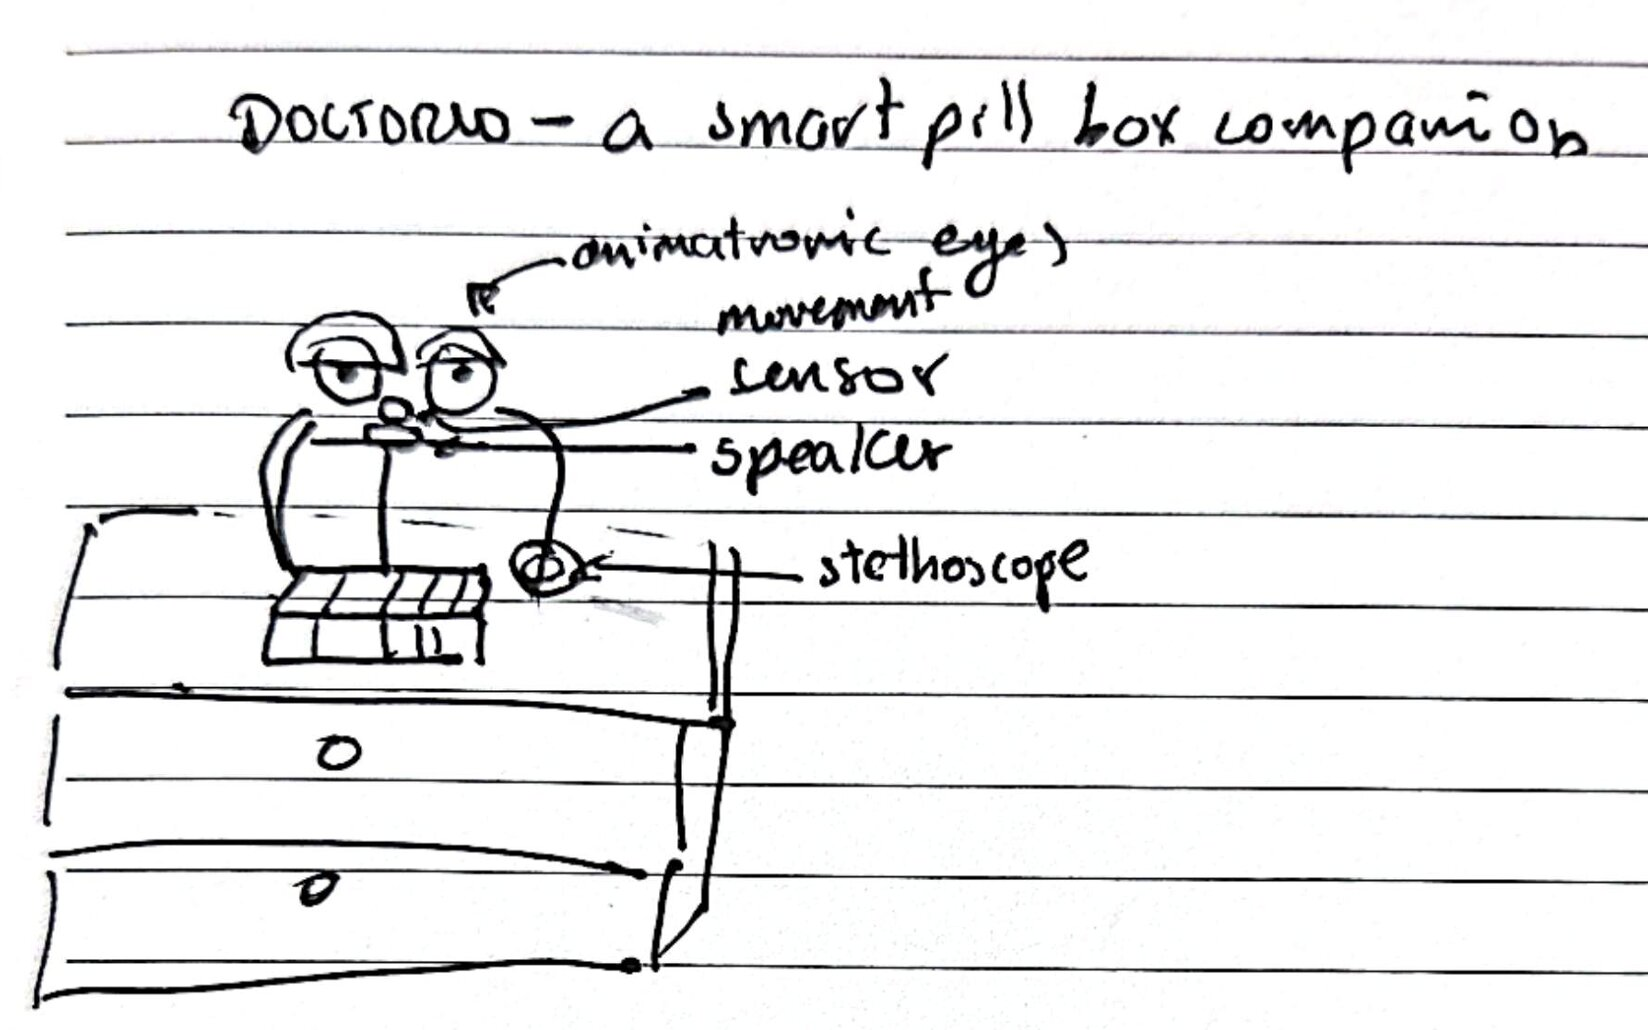
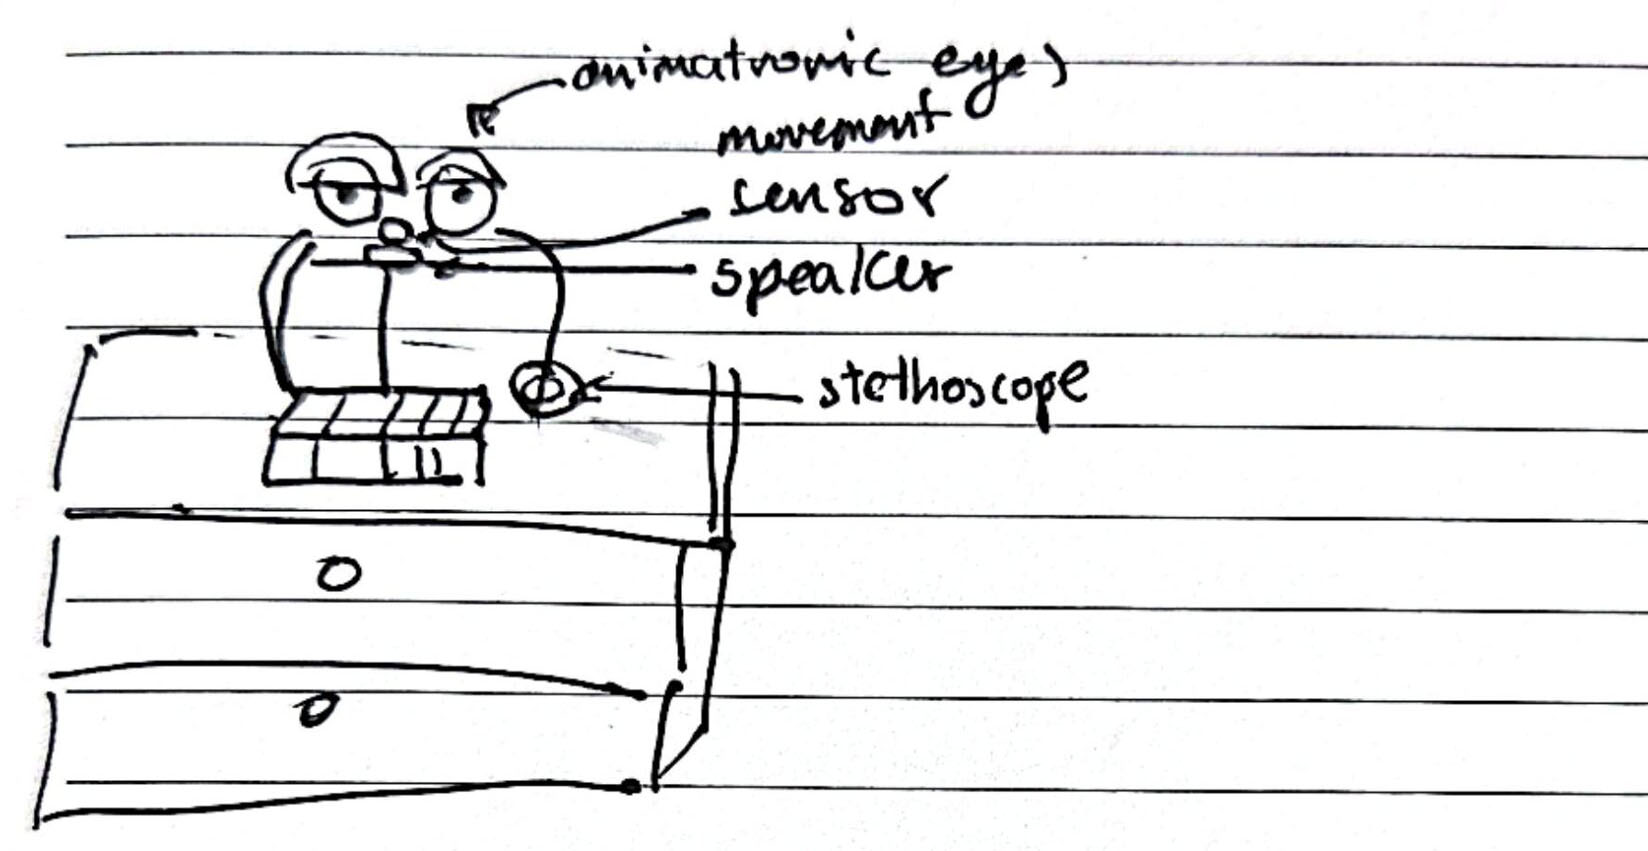
update robot name

Changed region(s): [[0.0, 0.0306, 1.0, 0.9777]]

diff --git a/01_intro/index.html b/01_intro/index.html
@@ -30,7 +30,7 @@
       <div id="slideshow1" class="slideshow-container">
 				<div class="slides">
 					<img src="./Assets/doctorio.jpg" alt="">
-          <p class="caption"><i>Sketch of doctorio</i></p>
+          <p class="caption"><i>Sketch of memo</i></p>
 				</div>
 				<div class="slides">
 					<img src="./Assets/pill-holder.png" alt="">
